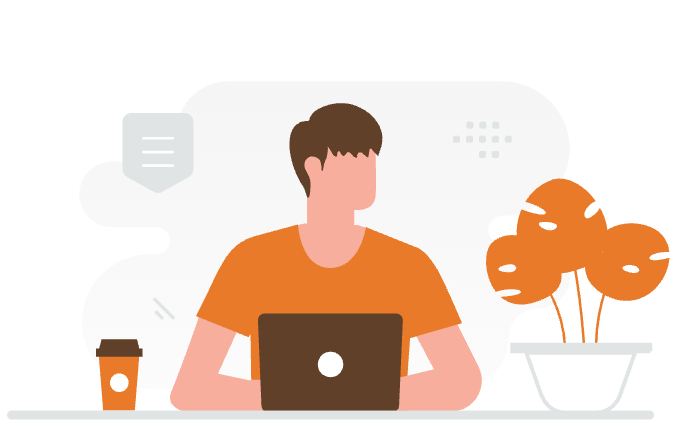
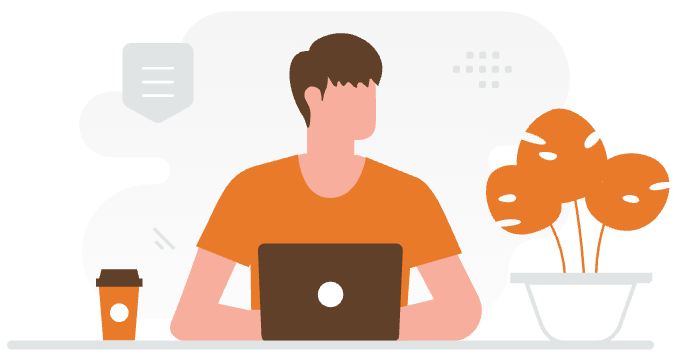
my account design (#241)

diff --git a/client_web/src/components/cards/AccountCard.tsx b/client_web/src/components/cards/AccountCard.tsx
@@ -21,19 +21,19 @@ function AccountCard(props: Props) {
   } = props;
 
   return (
-    <div className="bg-gray-200 p-4 my-2 rounded">
-      <div className="flex bg-gray-200 justify-between px-2">
-        {cardMode === PROFILE && (
-        <div>
-          <h2>Mes informations personnelles</h2>
-          <p>Nom: {profile.lastname}</p>
-          <p>Prénom: {profile.firstname}</p>
-          <p> Email: {profile.email}</p>
-        </div>
+    <div className="bg-gray-100 p-4 my-4 rounded-3xl">
+      <div className="flex justify-between px-2">
+        { cardMode === PROFILE && (
+          <div>
+            <h2 className="text-2xl mb-8">Mes informations personnelles</h2>
+            <p className="f-account-props">Nom : <span className="nunito-regular">{profile.lastname}</span></p>
+            <p className="f-account-props">Prénom : <span className="nunito-regular">{profile.firstname}</span></p>
+            <p className="f-account-props">Email : <span className="nunito-regular">{profile.email}</span></p>
+          </div>
         )}
         { cardMode === PASSWORD && (
         <div>
-          <h2>Mon mot de passe</h2>
+          <h2 className="text-2xl mb-8">Mon mot de passe</h2>
         </div>
         )}
         {((modeToUpdate !== PROFILE && cardMode === PROFILE)
@@ -41,6 +41,7 @@ function AccountCard(props: Props) {
         && (
         <div>
           <button
+            className="f-button-orange"
             type="button"
             onClick={() => setModeToUpdate(cardMode)}
           >

diff --git a/client_web/src/pages/MyAccountPage.tsx b/client_web/src/pages/MyAccountPage.tsx
@@ -1,6 +1,7 @@
 import AccountCard from '@components/cards/AccountCard';
 import { useUserProfile } from '@layouts/StaffLayout';
 import { useState } from 'react';
+import AccountMan from '../assets/illustrations/AccountMan.png';
 
 function MyAccountPage() {
   const { userProfile } = useUserProfile();
@@ -15,7 +16,14 @@ function MyAccountPage() {
       </div>
       {userProfile
       && (
-      <div><p>{userProfile.email}</p>
+      <div>
+        <div className="f-format-account">
+          <div className="flex flex-col gap-6">
+            <h2 className="text-5xl">Bonjour,</h2>
+            <h2 className="text-5xl nunito-bold">{userProfile.firstname} {userProfile.lastname}</h2>
+          </div>
+          <img className="w-[350px]" src={AccountMan} alt="AccountMan" />
+        </div>
         <AccountCard
           cardMode="profile"
           profile={userProfile}

diff --git a/client_web/src/index.css b/client_web/src/index.css
@@ -66,7 +66,7 @@
     }
 
     .f-button-orange {
-        @apply flex flex-row ml-4 p-3 rounded-2xl bg-white text-lg text-orange-500 hover:text-orange-600 hover:bg-gray-100 drop-shadow;
+        @apply flex flex-row ml-4 p-3 rounded-2xl bg-white text-lg text-orange-500 hover:text-orange-600 hover:bg-gray-100 drop-shadow-xl;
     }
 
     .f-button-white-orange {
@@ -74,6 +74,10 @@
     }
 
     /* ------- text components ------- */
+
+    .f-account-props {
+        @apply text-xl nunito-bold mb-2 ml-4;
+    }
 
     .f-client-subtitle {
         @apply nunito-bold mb-8 text-2xl text-center;
@@ -187,6 +191,10 @@
 
     .f-format-creation {
         @apply flex flex-row items-center ml-8 mb-8 mt-8;
+    }
+
+    .f-format-account {
+        @apply flex flex-row items-center justify-between mx-8;
     }
 
     /* ------- icon components ------- */

diff --git a/client_web/src/components/forms/UpdateProfileForm.tsx b/client_web/src/components/forms/UpdateProfileForm.tsx
@@ -61,16 +61,16 @@ function UpdateProfileForm(props: Props) {
         <input placeholder="Prénom" {...register('firstname')} required className={inputClassName} />
         <input placeholder="Email" {...register('email')} required className={inputClassName} />
       </div>
-      <div className="flex">
+      <div className="flex gap-4">
         <button
-          className="p-2 mx-2 w-[5rem] bg-red-600 rounded text-white hover:bg-red-700"
+          className="f-button-white-red"
           type="button"
           onClick={() => setModeToUpdate('')}
         >
           Annuler
         </button>
         <button
-          className="p-2 mx-2 w-fit bg-green-600 rounded text-white hover:bg-green-700"
+          className="f-button-white-green"
           type="submit"
         >
           Valider

diff --git a/client_web/src/components/forms/UpdatePasswordForm.tsx b/client_web/src/components/forms/UpdatePasswordForm.tsx
@@ -51,16 +51,16 @@ function UpdatePasswordForm(props: Props) {
         {watch('confirmPassword') !== watch('newPassword') && getValues('confirmPassword') ? (<p>Les nouveaux mots de passe ne sont pas identiques</p>) : null}
       </div>
 
-      <div className="flex">
+      <div className="flex gap-4">
         <button
-          className="p-2 mx-2 w-[5rem] bg-red-600 rounded text-white hover:bg-red-700"
+          className="f-button-white-red"
           type="button"
           onClick={() => setModeToUpdate('')}
         >
           Annuler
         </button>
         <button
-          className="p-2 mx-2 w-fit bg-green-600 rounded text-white hover:bg-green-700"
+          className="f-button-white-green"
           type="submit"
         >
           Valider
